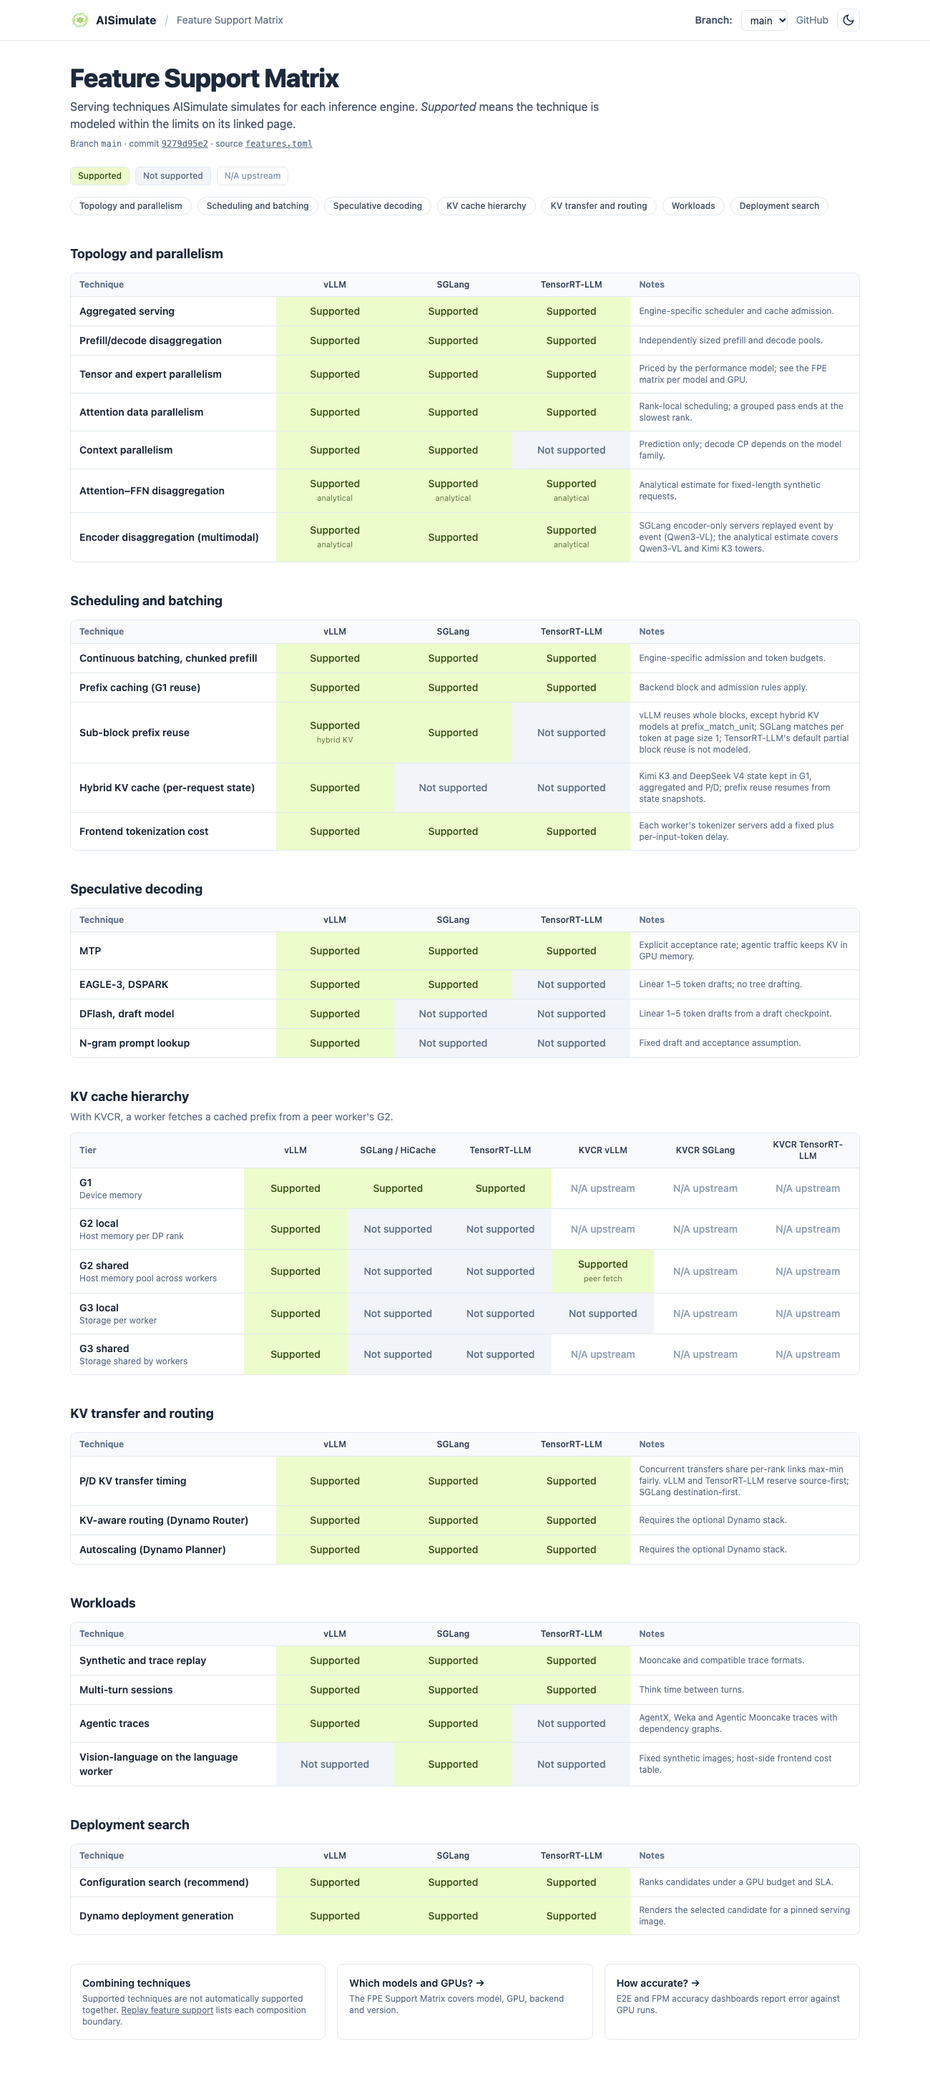
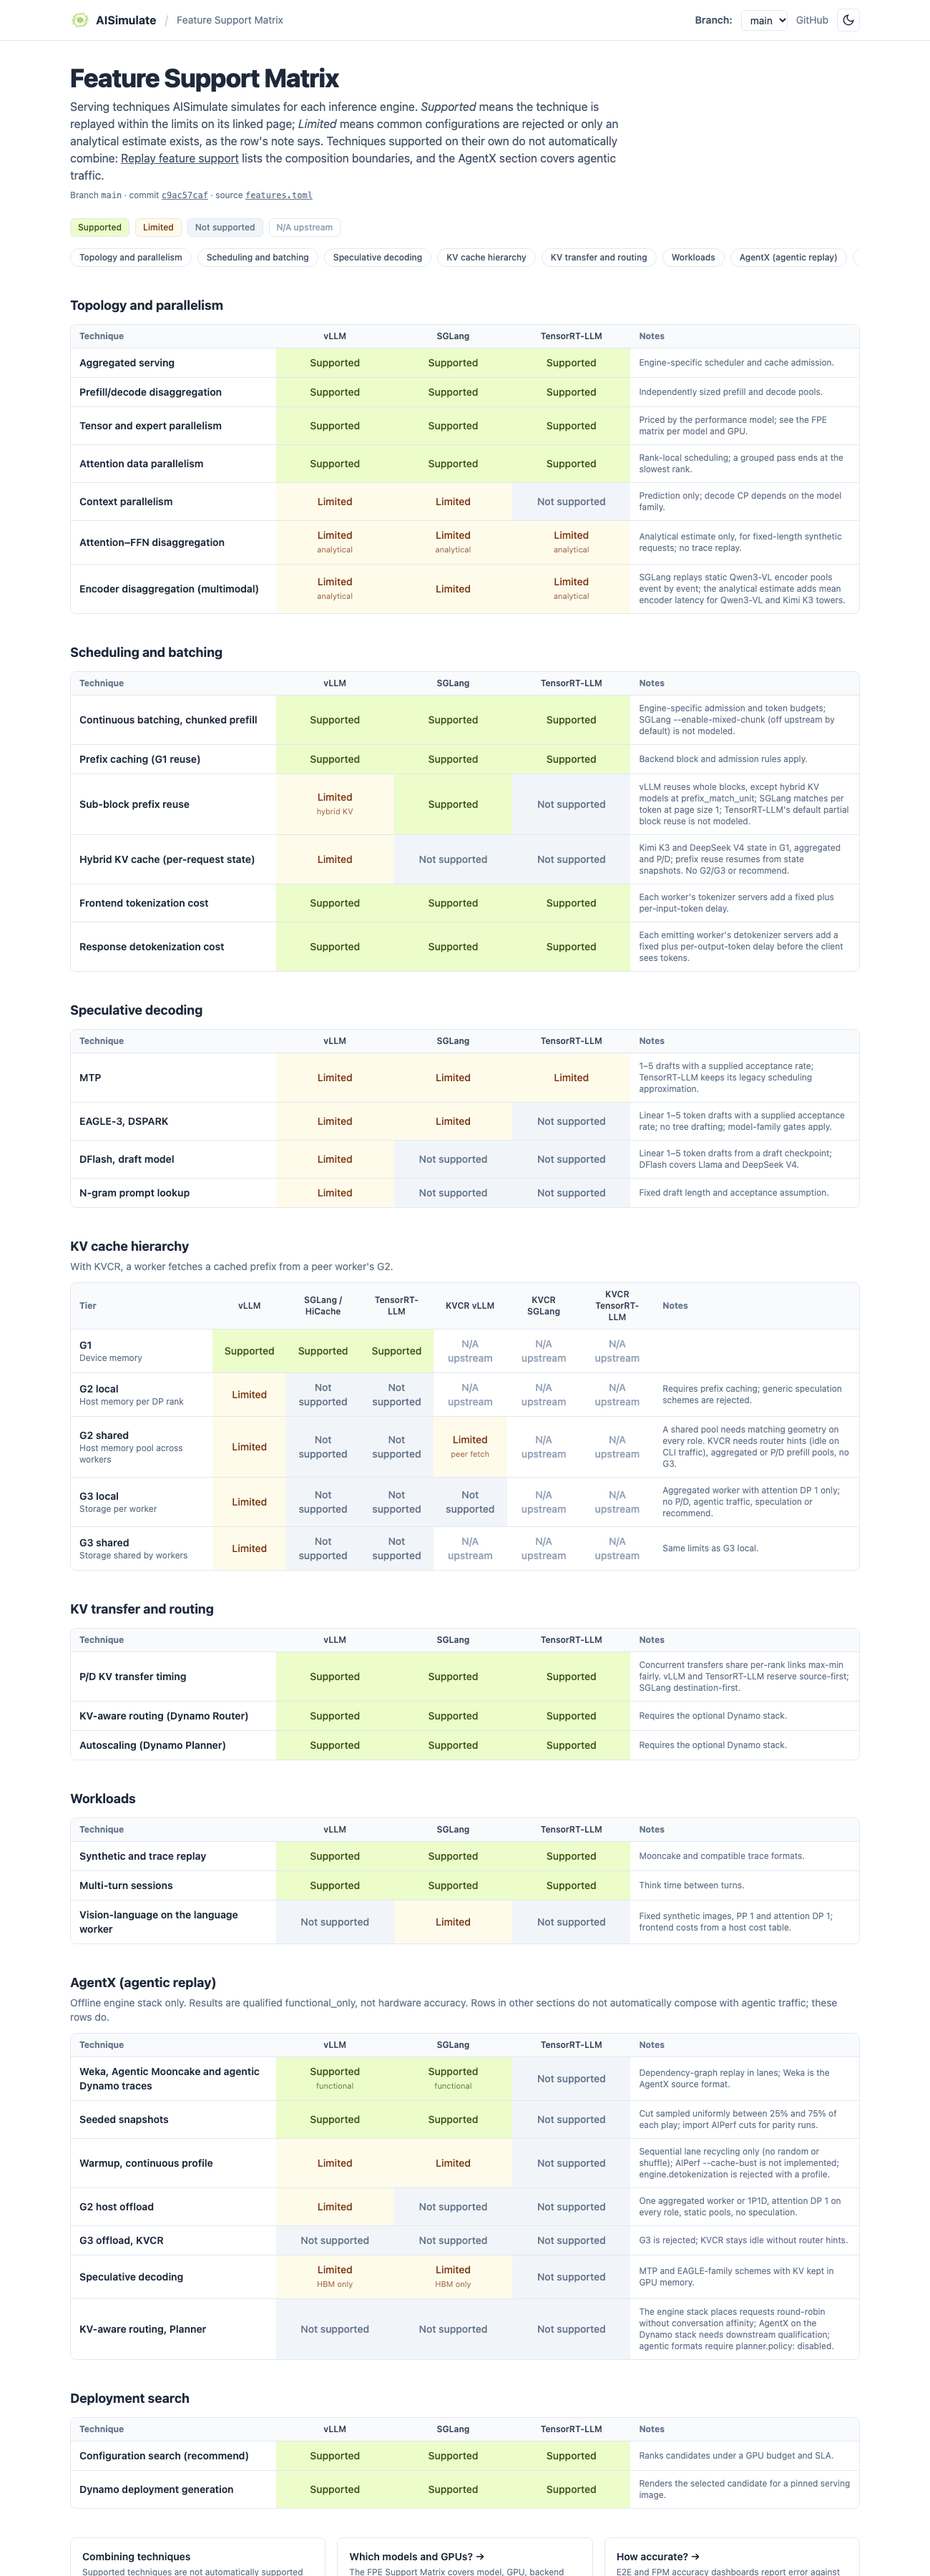
feat: add a Limited state and an AgentX section to the feature matrix
- Add a "limited" cell state for features that are modeled but reject
  common configurations or exist only as an analytical estimate; each
  limited row's note names the limits. The KV table gains a notes column.
- Add an AgentX (agentic replay) section covering trace formats,
  snapshots, warmup and profiles, G2/G3/KVCR, speculation and routing
  under agentic traffic, qualified functional_only.
- State in the page intro that supported features do not automatically
  combine, linking docs/replay/features.md; the PR template and README
  now name both files.
- List response detokenization cost.

diff --git a/pages/feature-support-matrix/template.html b/pages/feature-support-matrix/template.html
@@ -42,7 +42,11 @@ tailwind.config = {
   <h1 class="text-3xl sm:text-4xl font-extrabold tracking-tight mb-2">Feature Support Matrix</h1>
   <p class="text-slate-600 dark:text-slate-300 max-w-3xl mb-2">
     Serving techniques AISimulate simulates for each inference engine. <em>Supported</em> means the
-    technique is modeled within the limits on its linked page.
+    technique is replayed within the limits on its linked page; <em>Limited</em> means common
+    configurations are rejected or only an analytical estimate exists, as the row's note says.
+    Techniques supported on their own do not automatically combine:
+    <a class="underline" href="https://github.com/ai-dynamo/aisimulate/blob/main/docs/replay/features.md">Replay feature support</a>
+    lists the composition boundaries, and the AgentX section covers agentic traffic.
   </p>
 {{VIEWS}}
 

diff --git a/scripts/pages/feature_support_matrix.py b/scripts/pages/feature_support_matrix.py
@@ -21,6 +21,7 @@ TEMPLATE_PATH = "pages/feature-support-matrix/template.html"
 
 STATUS = {
     "supported": ("Supported", "bg-lime-100 text-lime-900 dark:bg-lime-900/40 dark:text-lime-200"),
+    "limited": ("Limited", "bg-amber-50 text-amber-900 dark:bg-amber-900/30 dark:text-amber-200"),
     "not_supported": ("Not supported", "bg-slate-100 text-slate-500 dark:bg-slate-800 dark:text-slate-400"),
     "na": ("N/A upstream", "bg-white text-slate-400 dark:bg-slate-900 dark:text-slate-500"),
 }
@@ -175,8 +176,9 @@ def _cell(spec: str) -> str:
 def _section(section: dict, engines: list[str], prefix: str, docs_url: str) -> str:
     columns = section.get("columns", engines)
     has_notes = any("note" in row for row in section["rows"])
-    first = 26 if has_notes else 22
-    value_width = (45 if has_notes else 100 - first) / len(columns)
+    wide = len(columns) > 3
+    first = 18 if wide else 26 if has_notes else 22
+    value_width = ((56 if wide else 45) if has_notes else 100 - first) / len(columns)
     colgroup = f'<col style="width:{first}%">' + "".join(f'<col style="width:{value_width:.2f}%">' for _ in columns)
     colgroup += "<col>" if has_notes else ""
     min_width = 200 + 110 * len(columns) + (230 if has_notes else 0)

diff --git a/pages/README.md b/pages/README.md
@@ -32,9 +32,10 @@ The Feature Support Matrix is static HTML that
 `scripts/pages/feature_support_matrix.py` renders from
 `feature-support-matrix/template.html` and `features.toml`. A pull request that
 adds, removes or restricts a feature updates the affected cells in
-`features.toml`; each cell states what that branch's configuration validators
-accept. The publisher renders main's file and each release branch's committed
-file as one view per branch. A release cut before the file existed has no view.
+`features.toml` and the composition boundaries in `docs/replay/features.md`;
+each cell states what that branch's configuration validators accept. The
+publisher renders main's file and each release branch's committed file as one
+view per branch. A release cut before the file existed has no view.
 Every row's `doc` page and anchor must exist in the same tree. Invalid main data
 fails the build; an invalid release file only drops that release's view with a
 build warning, so check a release-branch edit with main's builder before merging.

diff --git a/.github/pull_request_template.md b/.github/pull_request_template.md
@@ -18,7 +18,7 @@ Point reviewers to the riskiest files, decisions, and cross-layer contracts.
 - Risk level: <!-- low / medium / high -->
 - Start with:
 - Public or serialized contract changed: <!-- no / yes: describe -->
-- Feature Support Matrix: <!-- unaffected / updated pages/feature-support-matrix/features.toml -->
+- Feature Support Matrix: <!-- unaffected / updated pages/feature-support-matrix/features.toml and docs/replay/features.md -->
 - Compatibility or rollback concern:
 
 ## Evidence
